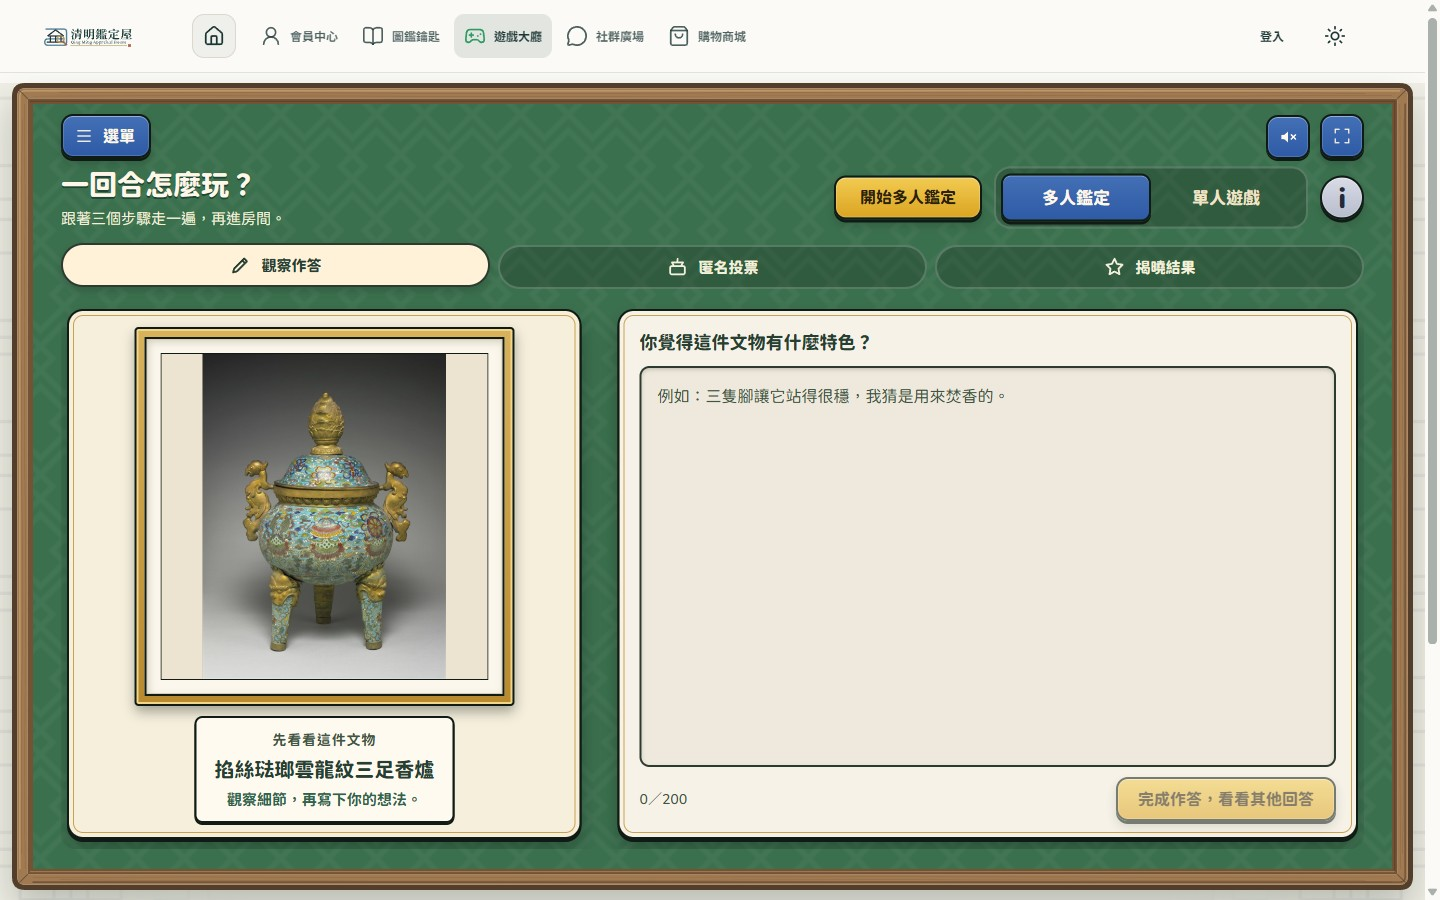
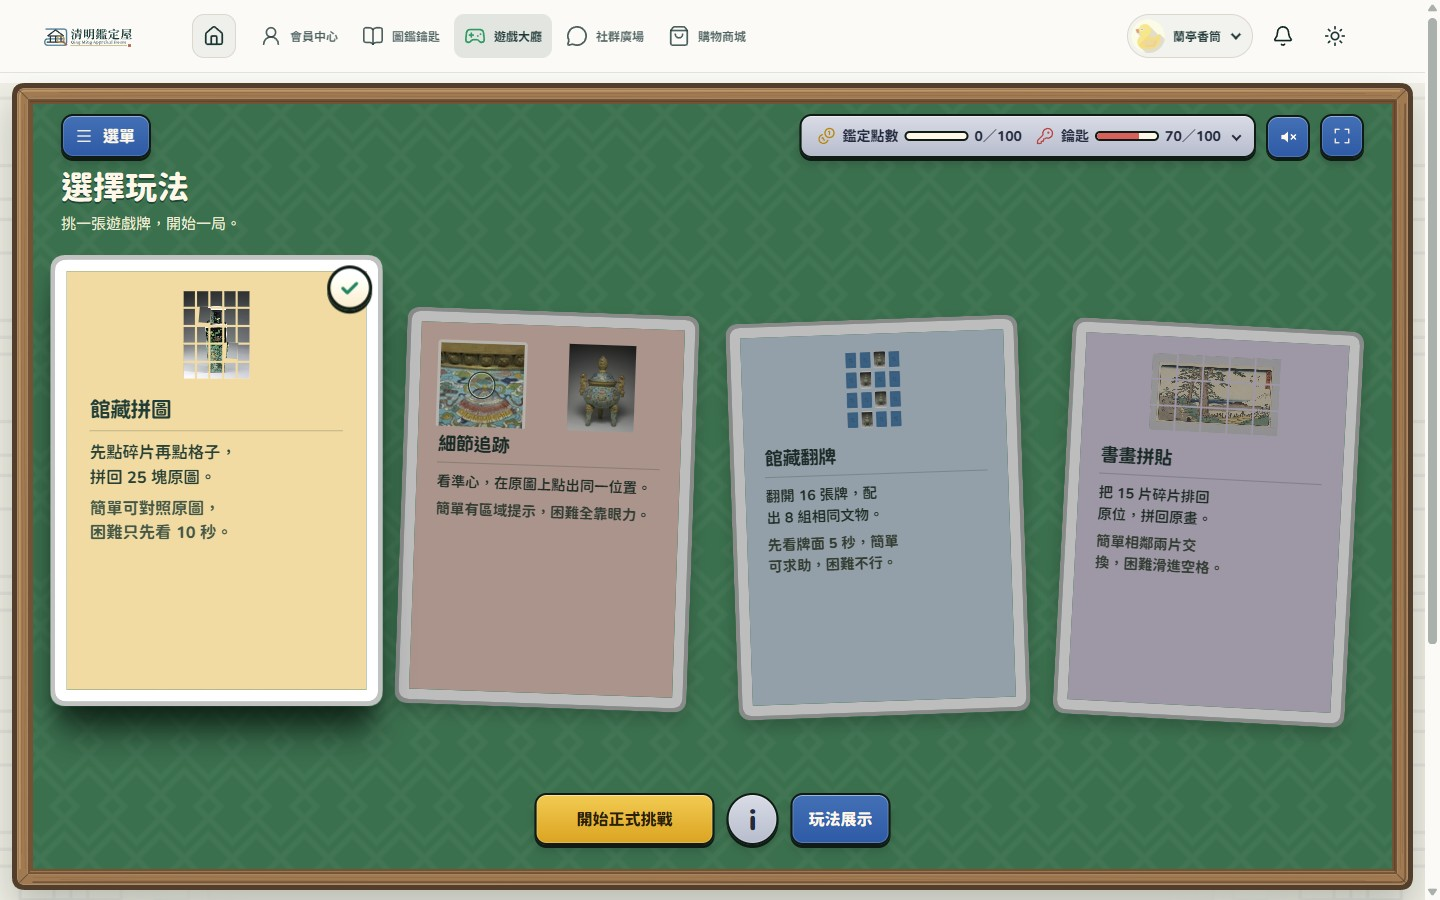
feat(deploy): 新增 Docker Compose 一鍵啟動並補上圖鑑與遊戲截圖 (#21)

diff --git a/README.md b/README.md
@@ -19,10 +19,10 @@
 | 首頁 | 登入 |
 | --- | --- |
 | ![首頁](docs/images/home.jpg) | ![登入](docs/images/login.jpg) |
+| **圖鑑** | **鑑定遊戲** |
+| ![圖鑑](docs/images/catalog.jpg) | ![鑑定遊戲](docs/images/game.jpg) |
 | **社群廣場** | **購物商城** |
 | ![社群廣場](docs/images/social.jpg) | ![購物商城](docs/images/store.jpg) |
-| **鑑定遊戲** | |
-| ![鑑定遊戲](docs/images/game.jpg) | |
 
 ## 功能
 
@@ -41,6 +41,18 @@
 ASP.NET Core 10、Entity Framework Core（DB-first）、Identity、SignalR、Angular 21.2、TypeScript、SQL Server、Cloudflare Turnstile、GitHub Actions。
 
 ## 快速啟動
+
+### 方法一：Docker（最快）
+
+只需要 [Docker Desktop](https://www.docker.com/products/docker-desktop/)：
+
+```bash
+docker compose up --build
+```
+
+第一次會編譯程式並下載約 40MB 的資料庫備份，完成後開 <http://localhost:8080>，管理後台在 <http://localhost:8080/admin/>。資料庫密碼可用環境變數 `QMAH_SA_PASSWORD` 覆寫，預設值只適用本機。`docker compose down -v` 會一併清除資料庫與上傳檔。
+
+### 方法二：本機開發
 
 需要 .NET SDK 10.0.301 以上、Node.js（版本見 `QMAH.Client/package.json`）與 SQL Server。
 
@@ -77,6 +89,7 @@ QMAH.Infrastructure/   Entity、DbContext 與匯入核心
 QMAH.Media/            共用媒體
 database/              Schema.sql 與 VERSION
 deploy/azure-demo/     Azure 部署腳本
+deploy/docker/         Docker 建置檔
 tools/                 資料處理與驗證工具
 docs/                  文件
 ```
